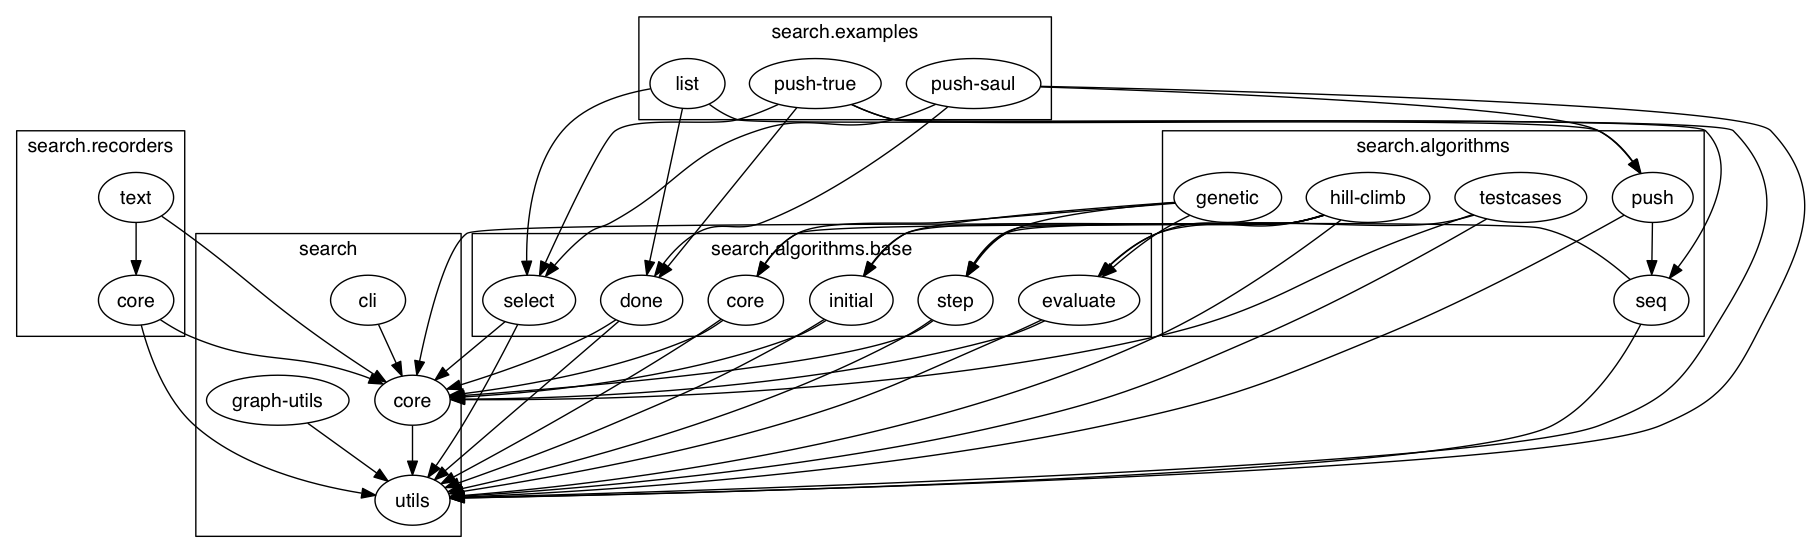
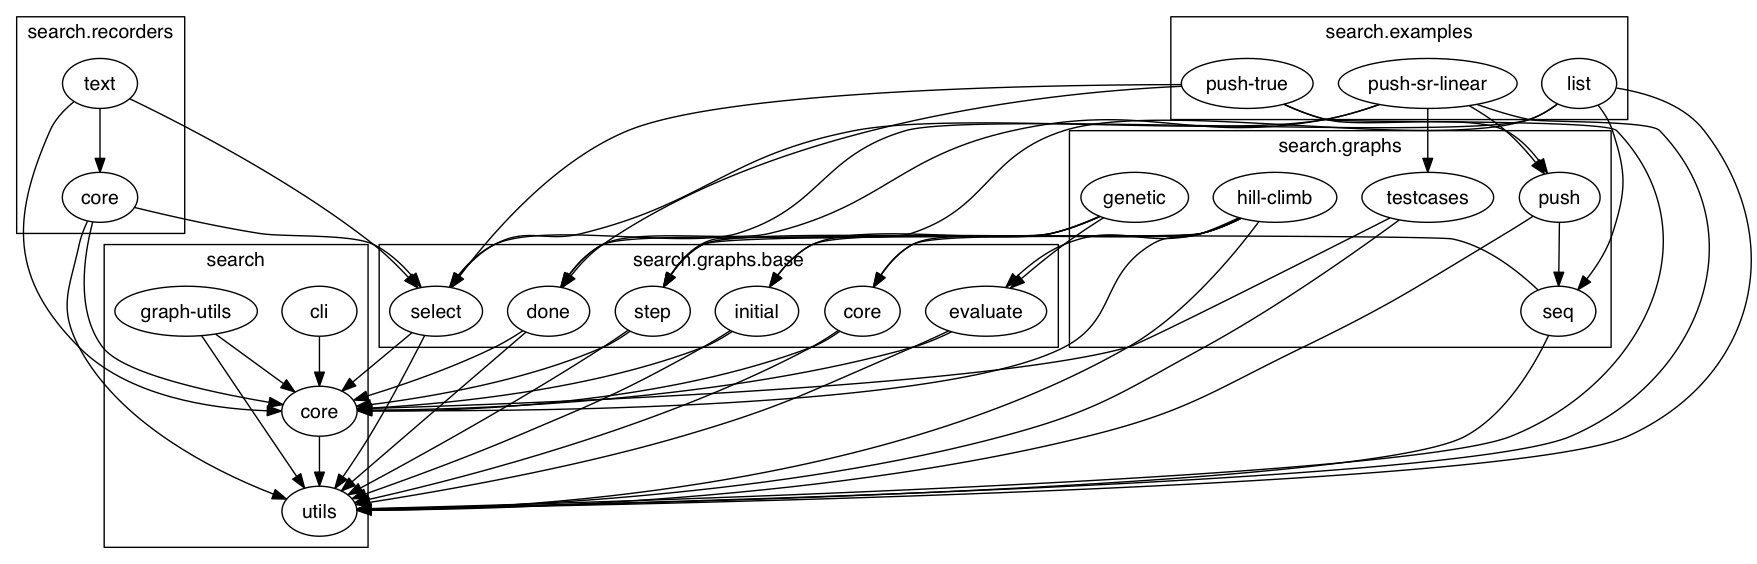
search.algorithms -> search.graphs

diff --git a/README.md b/README.md
@@ -84,7 +84,7 @@ a function that takes in a run ID and returns a sequence of generations.
 
 This makes the configuration extremely flexible. There are core paths for things
 like `mutate` or `fitness`. Instead, you can use a bunch of building blocks
-(in [`search.algorithms.base`](./src/search/algorithms/base)) to create it.
+(in [`search.graphs.base`](./src/search/algorithms/base)) to create it.
 
 However, I wanted configurations to be serializable (in a human readable format)
 so that if you did a run and it was recorded in a central data store, I could
@@ -109,7 +109,7 @@ a path somewhere else in the config file. This facilitates creating multiple
 configuration pieces that each use different algorithms but expect the `mutate`
 and `->genome` functions to be in the same place in your configuration.
 
-For a simple example, look at `search.algorithms.config/hill-climb-algorithm`
+For a simple example, look at `search.graphs.config/hill-climb-algorithm`
 that is used in `search.examples.list/config`.
 
 
@@ -135,7 +135,7 @@ population size and a new individual function and return an `Initial` function
 that returns the whole first generation.
 
 I have made a generalization of most algorithms in the
-`search.algorithms.base.core/->algorithm` function. One possibility is just to
+`search.graphs.base.core/->algorithm` function. One possibility is just to
 run with this option and move it into core, forcing all algorithms to behave
 like this.
 
